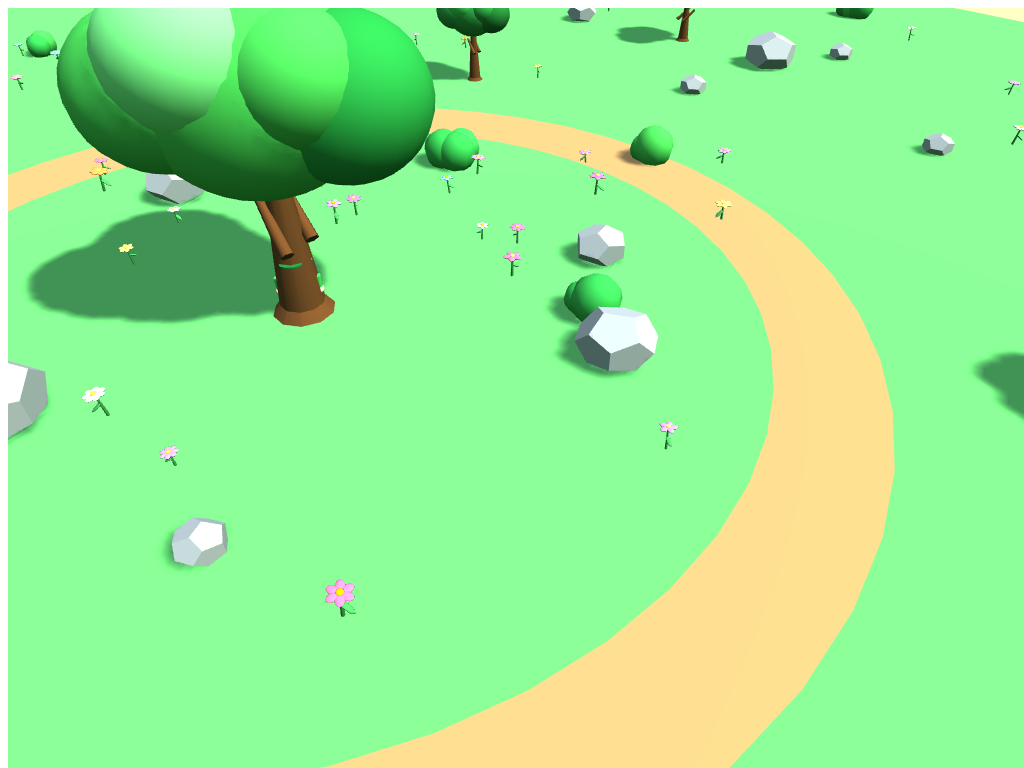
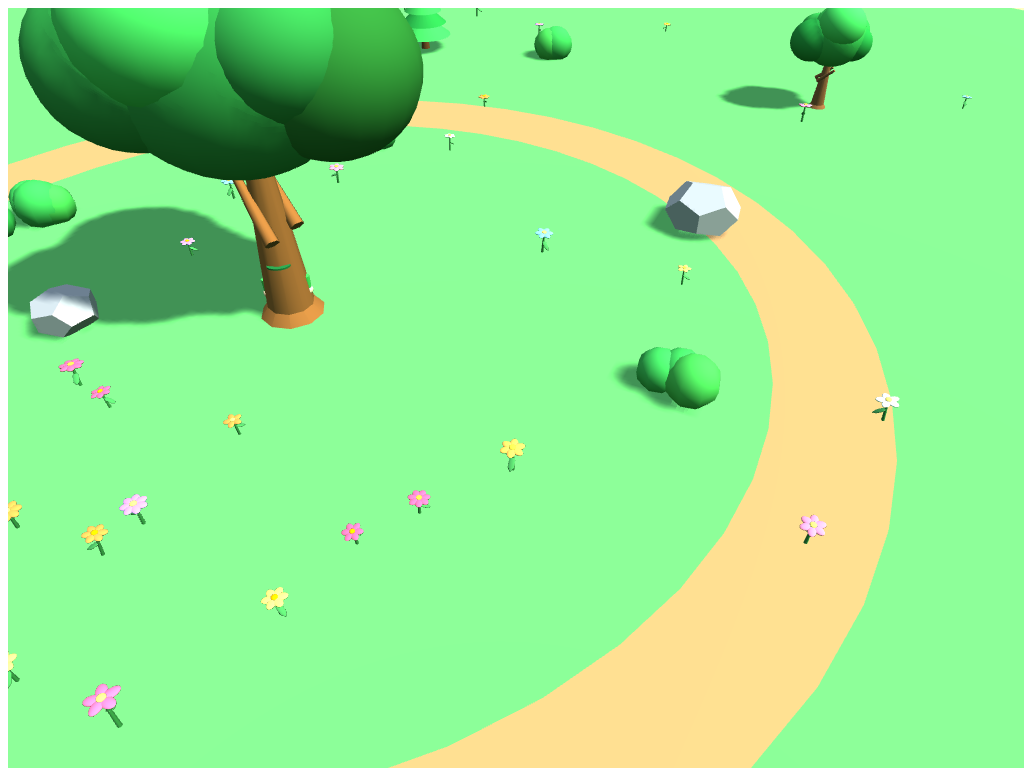
feat: add pause retry and menu controls

diff --git a/web/src/main.js b/web/src/main.js
@@ -10,10 +10,10 @@ const clamp=(v,a,b)=>Math.max(a,Math.min(b,v));
 const smooth=(cur,target,lag,dt)=>{const t=1-Math.exp(-dt/Math.max(lag,1e-4));return cur+(target-cur)*t;};
 
 const ACTIVE_I18N={
-  en:{dir:'ltr',language:'Language',tagline:'A 3D adventure to save the garden! 🌍',howto:'🗑️ <b>Pick up trash</b> — walk over it to clean it up!<br>🌱 <b>Plant trees</b> — stand on the glowing patch and press the button.<br>😈 <span class="bad">Stop Mtermish minions</span> — touch them to turn them into nature friends!<br>🎩 <span class="bad">Big Mtermish</span> needs <b>3 touches</b>... and runs fast!',start:'🚀 Start Adventure',keys:'💻 Arrow keys / WASD to move — Space or E to plant<br>📱 Joystick right — 🌱 button left',level:'Level',clean:'Garden cleanliness',prompt:'🌱 Press to plant a tree!',exit:'Exit',next:'Next Level',trashLeft:'Trash left',trees:'Trees',minions:'Mtermish minions',boss:'Big Mtermish',levelStart:n=>`Level ${n}: clean the garden and plant trees! 🌍`,levelDone:n=>`🎉 Level ${n} complete!`,exited:'Exited the game'},
-  ar:{dir:'rtl',language:'اللغة',tagline:'مغامرة ثلاثية الأبعاد لإنقاذ الحديقة! 🌍',howto:'🗑️ <b>التقط القمامة</b> — امشِ فوقها لتختفي!<br>🌱 <b>ازرع الأشجار</b> — قف على البقعة المضيئة واضغط الزر.<br>😈 <span class="bad">أوقف أتباع مترميش</span> — المسهم ليتحولوا إلى أصدقاء للطبيعة!<br>🎩 <span class="bad">مترميش الكبير</span> يحتاج <b>٣ لمسات</b>... وهو سريع الهرب!',start:'🚀 ابدأ المغامرة',keys:'💻 الأسهم / WASD للحركة — مسافة أو E للزراعة<br>📱 عصا التحكم يمين — زر 🌱 يسار',level:'مستوى',clean:'نظافة الحديقة',prompt:'🌱 اضغط لتزرع شجرة!',exit:'خروج',next:'المستوى التالي',trashLeft:'قمامة متبقية',trees:'أشجار',minions:'أتباع مترميش',boss:'مترميش الكبير',levelStart:n=>`المستوى ${n}: نظّف الحديقة وازرع الأشجار! 🌍`,levelDone:n=>`🎉 المستوى ${n} اكتمل!`,exited:'تم الخروج من اللعبة'},
-  es:{dir:'ltr',language:'Idioma',tagline:'Una aventura 3D para salvar el jardin. 🌍',howto:'🗑️ <b>Recoge basura</b> — pasa por encima para limpiarla.<br>🌱 <b>Planta arboles</b> — ponte en el punto brillante y pulsa el boton.<br>😈 <span class="bad">Deten a los secuaces de Mtermish</span> — tocalos para convertirlos en amigos de la naturaleza.<br>🎩 <span class="bad">Gran Mtermish</span> necesita <b>3 toques</b>... y corre rapido.',start:'🚀 Iniciar aventura',keys:'💻 Flechas / WASD para moverte — Espacio o E para plantar<br>📱 Joystick derecha — boton 🌱 izquierda',level:'Nivel',clean:'Limpieza del jardin',prompt:'🌱 Pulsa para plantar un arbol.',exit:'Salir',next:'Siguiente nivel',trashLeft:'Basura restante',trees:'Arboles',minions:'Secuaces de Mtermish',boss:'Gran Mtermish',levelStart:n=>`Nivel ${n}: limpia el jardin y planta arboles. 🌍`,levelDone:n=>`🎉 Nivel ${n} completado.`,exited:'Saliste del juego'},
-  fr:{dir:'ltr',language:'Langue',tagline:'Une aventure 3D pour sauver le jardin. 🌍',howto:'🗑️ <b>Ramasse les dechets</b> — marche dessus pour les nettoyer.<br>🌱 <b>Plante des arbres</b> — place-toi sur la zone brillante et appuie sur le bouton.<br>😈 <span class="bad">Arrete les sbires de Mtermish</span> — touche-les pour en faire des amis de la nature.<br>🎩 <span class="bad">Grand Mtermish</span> demande <b>3 touches</b>... et court vite.',start:"🚀 Lancer l'aventure",keys:'💻 Fleches / WASD pour bouger — Espace ou E pour planter<br>📱 Joystick a droite — bouton 🌱 a gauche',level:'Niveau',clean:'Proprete du jardin',prompt:'🌱 Appuie pour planter un arbre.',exit:'Quitter',next:'Niveau suivant',trashLeft:'Dechets restants',trees:'Arbres',minions:'Sbires de Mtermish',boss:'Grand Mtermish',levelStart:n=>`Niveau ${n} : nettoie le jardin et plante des arbres. 🌍`,levelDone:n=>`🎉 Niveau ${n} termine.`,exited:'Partie quittee'}
+  en:{dir:'ltr',language:'Language',tagline:'A 3D adventure to save the garden! 🌍',howto:'🗑️ <b>Pick up trash</b> — walk over it to clean it up!<br>🌱 <b>Plant trees</b> — stand on the glowing patch and press the button.<br>😈 <span class="bad">Stop Mtermish minions</span> — touch them to turn them into nature friends!<br>🎩 <span class="bad">Big Mtermish</span> needs <b>3 touches</b>... and runs fast!',start:'🚀 Start Adventure',keys:'💻 Arrow keys / WASD to move — Space or E to plant<br>📱 Joystick right — 🌱 button left',level:'Level',clean:'Garden cleanliness',prompt:'🌱 Press to plant a tree!',exit:'Exit',pause:'Pause',paused:'Paused',resume:'Resume',retry:'Retry',menu:'Menu',next:'Next Level',trashLeft:'Trash left',trees:'Trees',minions:'Mtermish minions',boss:'Big Mtermish',levelStart:n=>`Level ${n}: clean the garden and plant trees! 🌍`,levelDone:n=>`🎉 Level ${n} complete!`,exited:'Exited the game'},
+  ar:{dir:'rtl',language:'اللغة',tagline:'مغامرة ثلاثية الأبعاد لإنقاذ الحديقة! 🌍',howto:'🗑️ <b>التقط القمامة</b> — امشِ فوقها لتختفي!<br>🌱 <b>ازرع الأشجار</b> — قف على البقعة المضيئة واضغط الزر.<br>😈 <span class="bad">أوقف أتباع مترميش</span> — المسهم ليتحولوا إلى أصدقاء للطبيعة!<br>🎩 <span class="bad">مترميش الكبير</span> يحتاج <b>٣ لمسات</b>... وهو سريع الهرب!',start:'🚀 ابدأ المغامرة',keys:'💻 الأسهم / WASD للحركة — مسافة أو E للزراعة<br>📱 عصا التحكم يمين — زر 🌱 يسار',level:'مستوى',clean:'نظافة الحديقة',prompt:'🌱 اضغط لتزرع شجرة!',exit:'خروج',pause:'إيقاف',paused:'إيقاف مؤقت',resume:'متابعة',retry:'إعادة',menu:'القائمة',next:'المستوى التالي',trashLeft:'قمامة متبقية',trees:'أشجار',minions:'أتباع مترميش',boss:'مترميش الكبير',levelStart:n=>`المستوى ${n}: نظّف الحديقة وازرع الأشجار! 🌍`,levelDone:n=>`🎉 المستوى ${n} اكتمل!`,exited:'تم الخروج من اللعبة'},
+  es:{dir:'ltr',language:'Idioma',tagline:'Una aventura 3D para salvar el jardin. 🌍',howto:'🗑️ <b>Recoge basura</b> — pasa por encima para limpiarla.<br>🌱 <b>Planta arboles</b> — ponte en el punto brillante y pulsa el boton.<br>😈 <span class="bad">Deten a los secuaces de Mtermish</span> — tocalos para convertirlos en amigos de la naturaleza.<br>🎩 <span class="bad">Gran Mtermish</span> necesita <b>3 toques</b>... y corre rapido.',start:'🚀 Iniciar aventura',keys:'💻 Flechas / WASD para moverte — Espacio o E para plantar<br>📱 Joystick derecha — boton 🌱 izquierda',level:'Nivel',clean:'Limpieza del jardin',prompt:'🌱 Pulsa para plantar un arbol.',exit:'Salir',pause:'Pausa',paused:'Pausa',resume:'Continuar',retry:'Reintentar',menu:'Menu',next:'Siguiente nivel',trashLeft:'Basura restante',trees:'Arboles',minions:'Secuaces de Mtermish',boss:'Gran Mtermish',levelStart:n=>`Nivel ${n}: limpia el jardin y planta arboles. 🌍`,levelDone:n=>`🎉 Nivel ${n} completado.`,exited:'Saliste del juego'},
+  fr:{dir:'ltr',language:'Langue',tagline:'Une aventure 3D pour sauver le jardin. 🌍',howto:'🗑️ <b>Ramasse les dechets</b> — marche dessus pour les nettoyer.<br>🌱 <b>Plante des arbres</b> — place-toi sur la zone brillante et appuie sur le bouton.<br>😈 <span class="bad">Arrete les sbires de Mtermish</span> — touche-les pour en faire des amis de la nature.<br>🎩 <span class="bad">Grand Mtermish</span> demande <b>3 touches</b>... et court vite.',start:"🚀 Lancer l'aventure",keys:'💻 Fleches / WASD pour bouger — Espace ou E pour planter<br>📱 Joystick a droite — bouton 🌱 a gauche',level:'Niveau',clean:'Proprete du jardin',prompt:'🌱 Appuie pour planter un arbre.',exit:'Quitter',pause:'Pause',paused:'Pause',resume:'Reprendre',retry:'Rejouer',menu:'Menu',next:'Niveau suivant',trashLeft:'Dechets restants',trees:'Arbres',minions:'Sbires de Mtermish',boss:'Grand Mtermish',levelStart:n=>`Niveau ${n} : nettoie le jardin et plante des arbres. 🌍`,levelDone:n=>`🎉 Niveau ${n} termine.`,exited:'Partie quittee'}
 };
 let activeLocale=localStorage.getItem('cleanGarden.locale')||'en';
 function tr(k,...args){const pack=ACTIVE_I18N[activeLocale]||ACTIVE_I18N.en;const v=pack[k]??ACTIVE_I18N.en[k]??k;return typeof v==='function'?v(...args):v;}
@@ -25,7 +25,8 @@ function applyLocale(locale=activeLocale){
   $('languageSelect').value=activeLocale;$('languageLabel').textContent=tr('language');$('tagline').textContent=tr('tagline');
   $('howto').innerHTML=tr('howto');$('startBtn').textContent=tr('start');$('keysHint').innerHTML=tr('keys');
   $('uiLevelLabel').textContent=tr('level');$('cleanlinessLabel').textContent=tr('clean');$('prompt').textContent=tr('prompt');
-  $('exitBtn').textContent=tr('exit');$('nextBtn').textContent=tr('next');
+  $('exitBtn').textContent=tr('exit');$('pauseBtn').textContent=tr('pause');$('pauseTitle').textContent=tr('paused');
+  $('resumeBtn').textContent=tr('resume');$('retryBtn').textContent=tr('retry');$('menuBtn').textContent=tr('menu');$('nextBtn').textContent=tr('next');
   $('actBtn').setAttribute('aria-label',tr('prompt'));$('exitBtn').setAttribute('aria-label',tr('exit'));$('sndBtn').setAttribute('aria-label','Sound');
   if(typeof Game!=='undefined'&&Game.running)Game.updateMission();
 }
@@ -505,9 +506,14 @@ function newTarget(v){const a=Math.random()*Math.PI*2,r=rand(5,WORLD_R-3);
 /* ---------------- Game state ---------------- */
 const Game={
   running:false,level:1,score:0,trees:0,trashGot:0,
-  quota:0,spawned:0,converted:0,spawnTimer:0,nearPatch:null,plantCd:0,
+  quota:0,spawned:0,converted:0,spawnTimer:0,nearPatch:null,plantCd:0,bossTimer:null,
+
+  clearTimers(){
+    if(this.bossTimer){clearTimeout(this.bossTimer);this.bossTimer=null;}
+  },
 
   startLevel(n){
+    this.clearTimers();
     this.level=n;this.converted=0;this.spawned=0;this.spawnTimer=2;
     trash.forEach(t=>scene.remove(t.mesh));trash.length=0;
     villains.forEach(v=>scene.remove(v.mesh));villains.length=0;mtermish=null;
@@ -522,7 +528,7 @@ const Game={
     player.pos.set(6,0,6);player.vel.set(0,0,0);
     $('uiLevel').textContent=n;
     note(tr('levelStart',n),true,3200);
-    setTimeout(()=>{if(this.running){this.spawnedBoss=true;spawnVillain(true);this.updateMission();}},4000);
+    this.bossTimer=setTimeout(()=>{this.bossTimer=null;if(this.running){this.spawnedBoss=true;spawnVillain(true);this.updateMission();}},4000);
     this.updateMission();
   },
 
@@ -749,18 +755,35 @@ function exitFullscreen(){
 }
 function showMenu(){
   $('startOverlay').style.display='flex';
+  $('pauseOverlay').style.display='none';
   $('hud').style.display='none';
   $('sndBtn').style.display='none';
   $('exitBtn').style.display='none';
+  $('pauseBtn').style.display='none';
   $('joy').style.display='none';
   $('actBtn').style.display='none';
   $('prompt').style.display='none';
 }
 function exitGame(){
   Game.running=false;
+  Game.clearTimers();
   exitFullscreen();
   note(tr('exited'),true,1200);
   showMenu();
+}
+function pauseGame(){
+  if(!Game.running)return;
+  Game.running=false;
+  $('pauseOverlay').style.display='flex';
+}
+function resumeGame(){
+  $('pauseOverlay').style.display='none';
+  Game.running=true;
+}
+function retryLevel(){
+  $('pauseOverlay').style.display='none';
+  Game.running=true;
+  Game.startLevel(Game.level);
 }
 $('startBtn').onclick=()=>{
   Snd.init();
@@ -769,6 +792,7 @@ $('startBtn').onclick=()=>{
   $('hud').style.display='block';
   $('sndBtn').style.display='block';
   $('exitBtn').style.display='block';
+  $('pauseBtn').style.display='block';
   if(isTouch){$('joy').style.display='block';$('actBtn').style.display='flex';}
   Game.running=true;
   Game.startLevel(1);
@@ -776,8 +800,13 @@ $('startBtn').onclick=()=>{
 $('nextBtn').onclick=()=>{
   $('lvlOverlay').style.display='none';
   $('exitBtn').style.display='block';
+  $('pauseBtn').style.display='block';
   Game.running=true;
   Game.startLevel(Game.level+1);
 };
 $('languageSelect').onchange=e=>applyLocale(e.target.value);
+$('pauseBtn').onclick=()=>pauseGame();
+$('resumeBtn').onclick=()=>resumeGame();
+$('retryBtn').onclick=()=>retryLevel();
+$('menuBtn').onclick=()=>exitGame();
 applyLocale(activeLocale);

diff --git a/web/index.html b/web/index.html
@@ -24,6 +24,7 @@
   <div id="missionCard"></div>
   <div id="notes"></div>
   <div id="prompt">🌱 Press to plant a tree!</div>
+  <button id="pauseBtn" aria-label="Pause game">Pause</button>
   <button id="exitBtn" aria-label="Exit game">Exit</button>
 </div>
 
@@ -59,6 +60,17 @@
       <div class="stat">🗑️<div class="b" id="stTrash">0</div></div>
     </div>
     <button class="bigbtn" id="nextBtn">Next Level</button>
+  </div>
+</div>
+
+<div class="overlay" id="pauseOverlay">
+  <div class="card">
+    <h1 id="pauseTitle">Paused</h1>
+    <div class="pauseActions">
+      <button class="bigbtn" id="resumeBtn">Resume</button>
+      <button class="bigbtn altbtn" id="retryBtn">Retry</button>
+      <button class="bigbtn altbtn" id="menuBtn">Menu</button>
+    </div>
   </div>
 </div>
 

diff --git a/web/styles/main.css b/web/styles/main.css
@@ -52,10 +52,12 @@
   #actBtn:active{transform:translateY(3px);box-shadow:0 2px 0 rgba(0,0,0,.35)}
   #sndBtn{position:fixed;bottom:12px;left:50%;transform:translateX(-50%);z-index:8;background:rgba(255,253,245,.85);
     border:3px solid var(--deep);border-radius:14px;font-size:18px;padding:3px 12px;display:none;font-family:inherit}
-  #exitBtn{position:absolute;top:10px;left:10px;z-index:9;pointer-events:auto;background:rgba(255,253,245,.94);
+  #pauseBtn,#exitBtn{position:absolute;top:10px;z-index:9;pointer-events:auto;background:rgba(255,253,245,.94);
     border:3px solid var(--deep);border-radius:14px;color:var(--ink);font-family:inherit;font-size:15px;font-weight:900;
     padding:5px 14px;box-shadow:0 3px 0 rgba(0,0,0,.25);display:none;cursor:pointer}
-  #exitBtn:active{transform:translateY(2px);box-shadow:0 1px 0 rgba(0,0,0,.25)}
+  #exitBtn{left:10px}
+  #pauseBtn{left:82px}
+  #pauseBtn:active,#exitBtn:active{transform:translateY(2px);box-shadow:0 1px 0 rgba(0,0,0,.25)}
 
   /* ---------- overlays ---------- */
   .overlay{position:fixed;inset:0;z-index:20;display:flex;align-items:center;justify-content:center;
@@ -76,7 +78,11 @@
     font-family:inherit;font-size:22px;font-weight:900;border-radius:20px;padding:10px 40px;cursor:pointer;
     box-shadow:0 6px 0 var(--deep);transition:transform .1s}
   .bigbtn:active{transform:translateY(4px);box-shadow:0 2px 0 var(--deep)}
+  .altbtn{background:linear-gradient(180deg,#8ecae6,#2f7fb8);border-color:#1d5d87;box-shadow:0 6px 0 #1d5d87}
+  .pauseActions{display:flex;gap:10px;justify-content:center;flex-wrap:wrap;margin-top:14px}
+  .pauseActions .bigbtn{font-size:18px;padding:8px 22px}
   #lvlOverlay{display:none;background:rgba(9,40,22,.75);backdrop-filter:blur(3px)}
+  #pauseOverlay{display:none;background:rgba(9,40,22,.75);backdrop-filter:blur(3px)}
   #lvlOverlay .stats{display:flex;gap:10px;justify-content:center;margin:10px 0 16px;flex-wrap:wrap}
   #lvlOverlay .stat{background:#eef5e6;border:3px solid var(--deep);border-radius:14px;padding:6px 14px;font-weight:800}
   #lvlOverlay .stat .b{font-size:20px;color:var(--deep)}

diff --git a/docs/modular-offline-tauri-roadmap.md b/docs/modular-offline-tauri-roadmap.md
@@ -84,8 +84,8 @@
 - [ ] Avoid silent trash spawn failure when the trash cap is reached.
 - [ ] Replace `spawnTrash()` no-op behavior with an explicit result such as `{ spawned: true }` or `{ spawned: false, reason: "cap" }`.
 - [ ] Make villain litter behavior react to failed trash spawns instead of pretending trash was dropped.
-- [ ] Replace bare boss `setTimeout()` scheduling with simulation-owned timers.
-- [ ] Store and clear any remaining browser timer handles during pause, retry, exit, or level transition.
+- [x] Replace bare boss `setTimeout()` scheduling with simulation-owned timers.
+- [x] Store and clear any remaining browser timer handles during pause, retry, exit, or level transition.
 - [ ] Ensure pause freezes gameplay timers, boss spawn timing, villain drops, elapsed time, and input effects.
 - [ ] Ensure visual-only animations can continue during pause only if intentionally allowed.
 - [ ] Recalculate or redesign pollution denominator so spawned trash during a level does not make the meter misleading.
@@ -200,7 +200,7 @@
 - [x] Add localized buttons.
 - [ ] Add localized level-complete messages.
 - [ ] Add localized gameplay notification lines.
-- [ ] Add localized accessibility labels.
+- [x] Add localized accessibility labels.
 - [x] Add a language selector on the start/pause/settings screen.
 - [x] Save the selected language locally for offline reuse.
 - [x] Fall back to English for missing keys.
@@ -252,9 +252,9 @@
 - [ ] Preserve current single-player objective set: collect trash, plant trees, convert minions, defeat boss.
 - [ ] Add elapsed-time tracking.
 - [ ] Add best-time tracking per level and seed type.
-- [ ] Add pause/resume.
-- [ ] Add retry level.
-- [ ] Add return-to-menu.
+- [x] Add pause/resume.
+- [x] Add retry level.
+- [x] Add return-to-menu.
 - [ ] Add level-complete summary with score, trees, trash, time, and best time.
 
 ## Two Player Race Mode
@@ -280,7 +280,7 @@
 - [x] On web, exit should pause the game and return to the menu or confirmation overlay.
 - [ ] On Tauri desktop, exit should optionally close the window after confirmation.
 - [ ] On mobile, exit should return to the main menu unless platform rules require different behavior.
-- [ ] Add a pause/settings button if exit needs a confirmation path.
+- [x] Add a pause/settings button if exit needs a confirmation path.
 - [ ] Make sure exit controls do not overlap the joystick, action button, or HUD.
 
 ## Mobile And Desktop Input